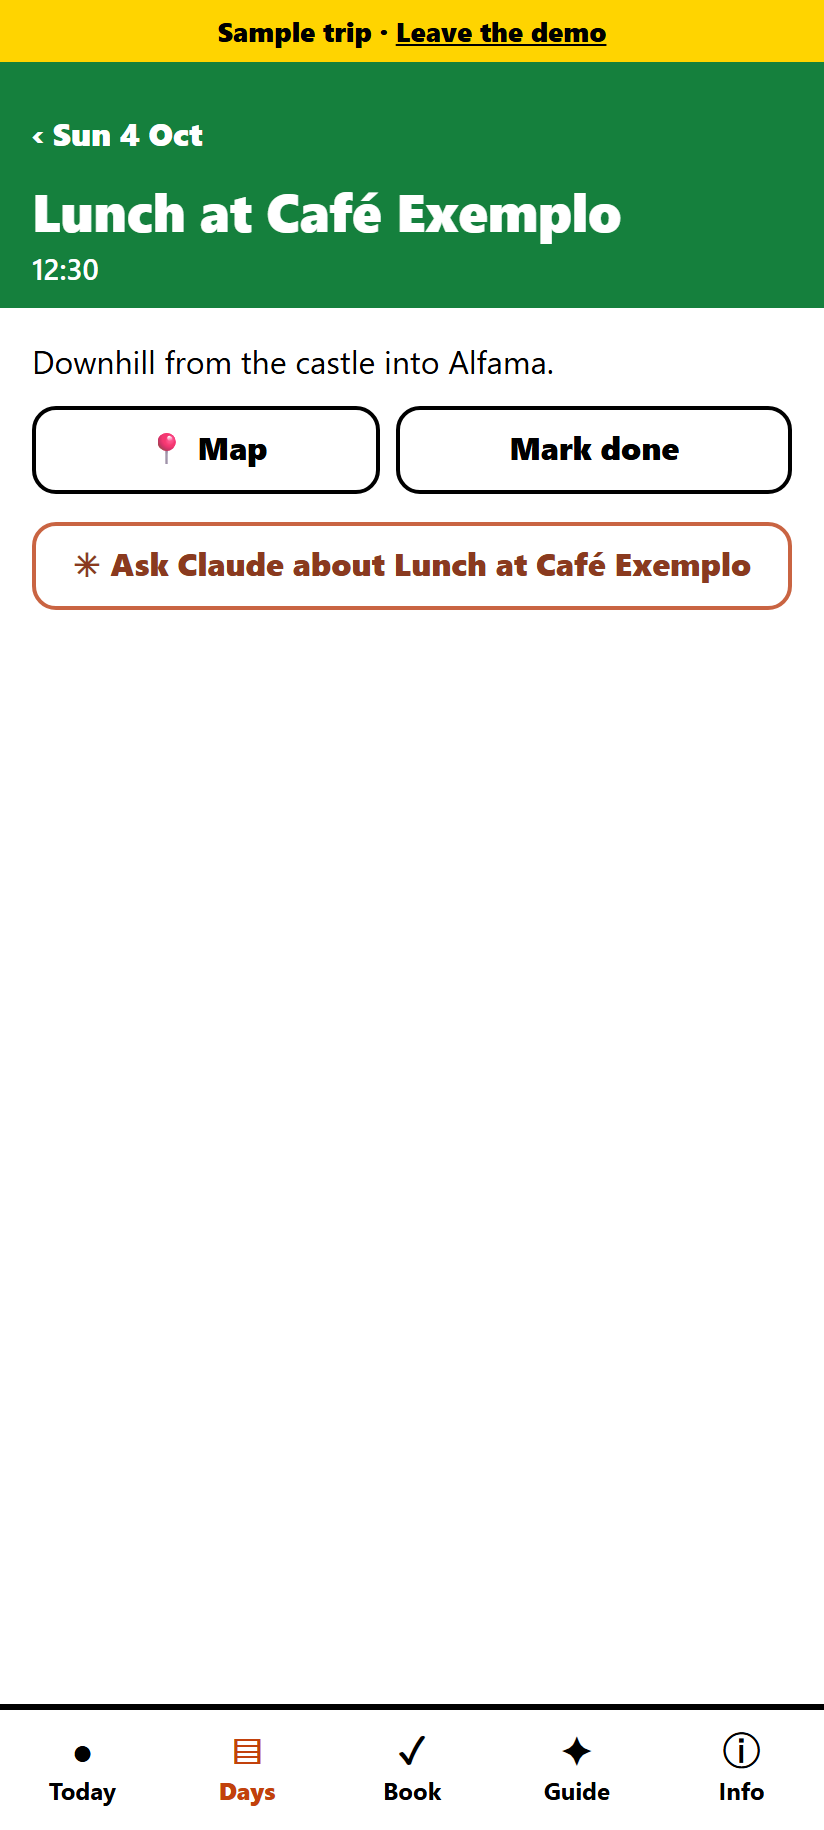
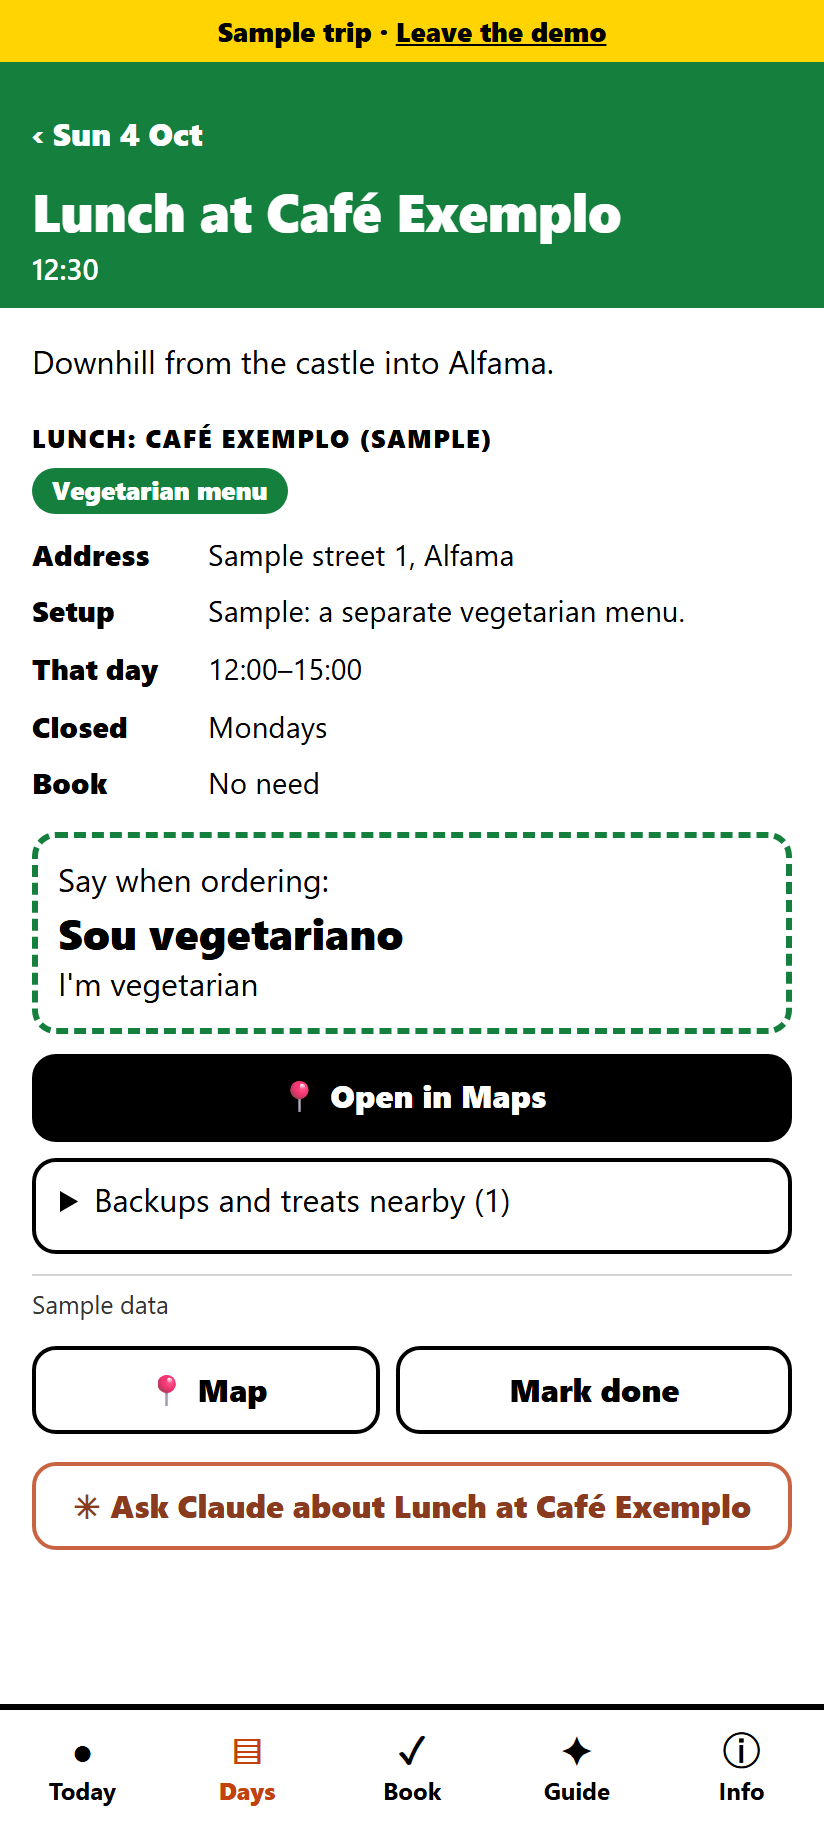
Document the itinerary format and architecture; add README, screenshots and CI

diff --git a/app/js/views/stop.js b/app/js/views/stop.js
@@ -26,7 +26,7 @@ export function stopView(ctx) {
       ${dining ? mealPanel(ctx, dining) : ''}
       ${stay ? stayPanel(ctx, stay) : ''}
       ${guides.map((g) => html`<a class="btn guide-link" href="#/guide/${g.id}">✦ Guide: ${g.title}</a>`)}
-      <div class="btns">${mapButton(stop.maps)}<button class="btn" type="button" data-action="tick" data-id="${stopTickId(stop)}">${ctx.ticks.has(stopTickId(stop)) ? 'Mark not done' : 'Mark done'}</button></div>
+      <div class="btns">${dining?.maps ? '' : mapButton(stop.maps)}<button class="btn" type="button" data-action="tick" data-id="${stopTickId(stop)}">${ctx.ticks.has(stopTickId(stop)) ? 'Mark not done' : 'Mark done'}</button></div>
       ${askLine(ctx, `${stop.title} (${formatDay(day.date)}, ${when})`, stop.title)}
     </div>`;
 }

diff --git a/docs/itinerary-format.md b/docs/itinerary-format.md
@@ -1,0 +1,104 @@
+# Itinerary format (`fieldbook/1`)
+
+Fieldbook reads a trip from a folder. Everything the app shows comes from these files; the app itself knows only concepts such as stop types, transport modes and booking statuses. The [Lisbon demo](../demo) uses every feature and is the best example to copy.
+
+```
+my-trip/
+  data/trip.json        the plan (required)
+  data/guides.json      the pocket guide (optional)
+  data/transport.json   routes, lines, running hours, departure boards (optional)
+  private/stays.json    addresses and other details to keep out of anything public (optional)
+  private/config.json   trip id and the Ask Claude link (optional)
+```
+
+`fieldbook validate --trip my-trip` checks the folder and explains every problem in plain English. `fieldbook encrypt` refuses to encrypt an invalid trip.
+
+Conventions: dates are `YYYY-MM-DD`, times are `HH:MM` (24-hour) in the trip's own time zone, colours are `#rrggbb`, links must be `https://`.
+
+## `data/trip.json`
+
+### `meta` (required)
+| Field | Meaning |
+|---|---|
+| `title` | Shown before the trip starts. |
+| `startDate`, `endDate` | First and last day. |
+| `timezone` | IANA zone, e.g. `Europe/Lisbon`. "Today" and "next" use this zone whatever the phone is set to. |
+| `factsCheckedBetween` | `[from, to]` dates (or text) shown as "checked …" labels. |
+| `pace` | One line about the pace of the trip, shown in the pace box. |
+
+### `travellers`
+`mobility` and `dietary` are lists of sentences, shown in the pace box on each day (until dismissed) and on Info.
+
+### `days` (required)
+Each day: `date`, `city`, `title`, `stops`. Days must be in date order inside the trip dates.
+
+Each stop:
+
+| Field | Required | Meaning |
+|---|---|---|
+| `id` | yes | Unique, `a-z 0-9 -`. Ticks on the phone are stored against it. |
+| `time` | yes | `HH:MM`. Used for ordering and "next". |
+| `timeLabel` | | Text to show instead of the time, e.g. `After lunch`. |
+| `title` | yes | |
+| `type` | yes | `transport`, `sight`, `meal`, `rest` or `logistics`. Sets the colour tile. |
+| `notes` | | Shown in full on the stop, first sentence in lists. |
+| `maps` | | A Google Maps search text, or `null`. |
+| `optional` | | `true` marks a stop the group may skip. |
+| `route` | | Id in `transport.routes`: shows options, "leaving now?" and later times. |
+| `board` | | Id in `transport.boards`: shows a departure board. `boardTab` picks the tab. |
+| `dining` | | `date/meal` key of an entry in `dining`: shows the meal card. |
+| `guide` | | Id (or list of ids) in `guides`. |
+| `stay` | | Id in `stays`: shows the stay card with address and "Show the driver". |
+
+### `dining`
+One entry per planned meal: `date`, `meal` (`breakfast`, `lunch`, `dinner`), `place`, `city`, `address`, `badge` (a short tag shown in lists, e.g. `Vegetarian menu`), `tags` (several tags instead of one badge), `setup`, `hoursThatDay`, `closed`, `book` (true/false), `maps`, `source`.
+
+`diningExtras` lists treats and backups: `kind` (used as a heading), `place`, `city`, `where`, `note`. Extras in the same city appear under each meal card.
+
+### `stays`
+`id`, `city`, `area`, `checkIn`, `checkOut`, `nights`, and optionally `checkInFrom`, `checkOutBy`, `checkInMethod`, `sleeps`, `amenities`, `maps`, `notes`. Keep exact addresses in `private/stays.json`, keyed by the same `id`.
+
+### `bookings`
+`id`, `item`, `forDate`, `deadline` (or `null`), `status`, `url`, `notes`. Status is one of `booked`, `todo`, `unconfirmed`, `unknown`, `optional`, `on-the-day`. The list is sorted by deadline, else by the date the booking is for. Ticking a booking on the phone counts it as done.
+
+### `alerts`
+`date`, `title`, `text`, `checked`, `sources`. Shown at the top of Today and Days until the day has passed, and tagged on that day.
+
+### Reference sections
+`localTransport` (per city: `summary`, `stops`, `routes`, `frequency`, `hours`, `fare`, `howToPay`, `accessibility`, `taxiFallback`, `notes`, `sources`), `transfers` (`id`, `title`, `summary`, `recommended`, `options[]`, `ticketNotes`), `flights` (`segments[]`, `status`, `baggage`), `tips` (`topic`, `text`, `source`) and `links` (`label`, `url`). They appear on the Info cards.
+
+### `ui`
+| Field | Meaning |
+|---|---|
+| `infoCards` | `[{ id, title, subtitle, icon, colour, sections }]`. Each section is one of `transfer:<id>`, `transfers`, `localTransport:<city>`, `dining`, `diningExtras`, `boards`, `tips`, `stays`, `flights`, `links`, `travellers`. Without this, Fieldbook makes sensible cards itself. |
+| `dietPhrase` | `{ say, meaning }`: a phrase shown large on every meal card. |
+| `askChips` | Quick questions offered in the Ask Claude sheet. |
+
+## `data/guides.json`
+```json
+{ "guides": [ { "id": "castle", "kind": "sight", "title": "São Jorge Castle", "city": "Lisbon",
+  "why": "Two sentences on why it matters.",
+  "lookFor": ["Things to point out on the spot"], "facts": ["One-sentence facts"],
+  "kids": [{ "q": "A question for children", "a": "Its answer" }],
+  "sources": ["https://…"], "checked": "2030-05-01" } ] }
+```
+`kind: "city"` entries are listed first as city intros. Places are listed in the order the trip first visits them.
+
+## `data/transport.json`
+| Part | Shape |
+|---|---|
+| `lines` | `{ <id>: { label, name, colour } }`. Labels appear on coloured chips. |
+| `services` | `{ <id>: { hours: [{ days: [0–6], from, to }], hoursText, frequency, sources } }`. Days count from 0 = Sunday. A `to` earlier than `from` runs past midnight, so Friday `05:30–01:30` covers early Saturday too. |
+| `routes` | `{ <id>: { options: [option, …] } }`. The first option is the plan. |
+| `boards` | `{ <id>: { title, date, tabs: [{ label, stations: [...], plan, note, rows: [{ times: [...], flag, note }] }], notes, checked, sources } }`. One time per station (`null` if the train doesn't call); `plan` is the planned departure from the first station. |
+
+A route option: `mode` (`metro`, `tram`, `train`, `bus`, `ferry`, `taxi`, `walk`), `label`, `minutes: [min, max]` door to door, `service`, `legs`, `later` (latest time to leave, as text), `fare`, `fareShort` (for chips), `pay`, `access`, `notes`, `where`, `driverText` (shown large for a taxi driver), `checked`, `sources`.
+
+A leg is either a ride, `{ line, direction, stops, to, text }`, or a walk, `{ walk: metres, minutes, text }`.
+
+"Leaving now?" adds each option's `minutes` to the current time and flags it when the latest arrival misses the next stop. When the option has a `service` that isn't running, it says so.
+
+## `private/`
+`stays.json` is keyed by stay id: `address`, `addressNote`, `host`, `registrationCode`, `listingUrl`, `listingTitle`. `config.json` holds `tripId` (4–32 lowercase letters or digits, used in the file name), `claudeProjectUrl` (the link Ask Claude opens) and `prefillParam` (a query parameter to pre-fill the question, or `null`).
+
+These files go into the encrypted trip file like everything else. Keeping them separate means they never need to be in a shared repository.

diff --git a/README.md b/README.md
@@ -1,0 +1,85 @@
+# Fieldbook
+
+**An offline, encrypted trip companion. It turns an itinerary file into a phone app that works without signal.**
+
+[Try the live demo](https://arash009.github.io/fieldbook/#demo) (a sample weekend in Lisbon; it starts today, so "next" and "leaving now?" are live).
+
+<p>
+  <img src="docs/screenshots/today.png" width="200" alt="Today: the next stop with tram and taxi options and leaving-now arrival times">
+  <img src="docs/screenshots/transport.png" width="200" alt="Transport detail: step-by-step route, later times and fares">
+  <img src="docs/screenshots/meal.png" width="200" alt="Meal card: diet setup, hours, a phrase to show staff">
+  <img src="docs/screenshots/guide.png" width="200" alt="Pocket guide page with things to look for and questions for kids">
+</p>
+
+## Why
+A family trip plan ends up scattered across chats, documents and booking emails. On the road there's roaming data, patchy signal and no time to dig. When someone in the group has limited mobility or a strict diet, the details matter: which metro exit has a lift, whether the restaurant has a separate kitchen, what time the last train goes.
+
+Fieldbook puts the plan in one place that opens instantly and keeps working offline.
+
+## What it does
+- **Today**: opens on the current day in the *trip's* time zone, even if the phone hasn't switched. It shows the next stop and an estimate for every way of getting there. Arrival windows are flagged when you'd miss the following stop, and an option is marked when it isn't running.
+- **Transport options and later times**: metro, tram and taxi side by side, step by step, with running hours, frequency, the latest time to leave, fares and how to pay. Timetabled trains appear on a departure board with the planned train highlighted and later ones listed, because plans slip on holiday.
+- **Meals**: each planned meal shows how the place caters for the group's diet, that day's opening hours and whether to book. It also has a phrase to show staff in the local language, and nearby backups.
+- **Bookings**: soonest deadline first, ticked off on the phone.
+- **Pocket guide**: for each place, why it matters, what to look for, sourced facts and questions for children.
+- **Ask Claude**: one tap copies the context (local time, the day, the next stop, what you're looking at) with your question and opens your Claude project.
+- **Built for outdoors**: black on white, heavy type, big tap targets. It installs to the home screen.
+
+## Privacy by design
+```
+your computer                         public web host                 your phone
+itinerary  ──encrypt (passphrase)──►  app + trip.enc (ciphertext) ──►  passphrase once,
+private details                       nothing readable                 works offline
+```
+- **Encryption:** each trip is encrypted on the owner's computer with PBKDF2-SHA-256 (600,000 iterations) and AES-256-GCM before it's uploaded. The host only ever sees ciphertext.
+- **On the phone:** the key is stored as a non-extractable `CryptoKey`, and the decrypted trip is never written to storage.
+- **Your data stays yours:** real itineraries live in their own private repositories and never touch this one.
+- Details and the threat model are in [docs/architecture.md](docs/architecture.md).
+
+## Bring your own itinerary
+```
+my-trip/data/trip.json         the plan
+my-trip/data/guides.json       optional pocket guide
+my-trip/data/transport.json    optional routes and departure boards
+my-trip/private/*.json         optional details kept out of anything shared
+```
+```bash
+node scripts/fieldbook.mjs validate --trip my-trip     # plain-English problems, if any
+TRIP_PASSPHRASE='five or more random words' \
+node scripts/fieldbook.mjs encrypt --trip my-trip --out dist/trips
+node scripts/fieldbook.mjs build && node scripts/fieldbook.mjs serve
+```
+The format is documented field by field in [docs/itinerary-format.md](docs/itinerary-format.md), and the [demo](demo) uses all of it.
+
+## How it's built
+- Plain JavaScript modules with **no framework and no dependencies**, not even dev ones. A 35-line bundler wires the modules into one file, so the app can also ship as a single self-contained HTML backup.
+- A service worker for offline use; Node 22 built-ins for the CLI (WebCrypto, `zlib` for the icons, `http` for the local server).
+- **57 tests** on Node's built-in test runner. They cover time-zone handling, the "next stop" and "leaving now?" logic, bookings, the board, the encryption round-trip, validation, the bundler, the build, deploys to a local git remote, and every screen rendered against the demo, including HTML escaping.
+- CI runs the tests on every push.
+
+## Built with AI
+I designed and built this with **Claude Code** (Anthropic's Claude Opus 5.5) in one session, as a real tool for my own family trip. The workflow:
+
+1. **Brainstorming** with clickable mockups in a local browser: three visual directions, then refinements, then every screen.
+2. **A written design spec**, revised when I decided to make the app a public, generic product with private trips kept separately.
+3. **A task-by-task implementation plan** with the tests written out.
+4. **Test-first implementation**, checked in a headless phone-sized browser along the way. That caught a real bug: the demo's moved dates broke meal links, and the fix came with a regression test.
+5. **Parallel research agents** for timetables and guide facts in my own trip, each fact with a source.
+
+I set the product direction and constraints:
+- privacy first;
+- offline;
+- readable in sunlight;
+- transport options rather than a rigid schedule;
+- a hand-off to Claude rather than an API bill.
+
+I reviewed each step. Claude wrote the code and tests, and commits carry `Co-Authored-By` trailers.
+
+## Roadmap
+- Hosted, multi-user trips: bring your own itinerary without running the CLI.
+- Import an itinerary from a chat, document or booking emails.
+- A shared read-only view for the rest of the group.
+- More languages for the interface and phrases.
+
+## License
+MIT

diff --git a/docs/architecture.md b/docs/architecture.md
@@ -1,0 +1,40 @@
+# Architecture
+
+## Shape
+
+```
+itinerary folder ──fieldbook encrypt──► trips/<id>.enc ─┐
+                                                        ├─► static site (GitHub Pages) ──► phone (installed web app)
+app/ ──fieldbook build──► index.html, app.js, sw.js ───┘
+```
+
+- **No framework, no dependencies.** The app is plain ES modules in `app/js/`. A small bundler (`scripts/lib/bundle.mjs`) wraps each module in a function and wires imports, giving one `app.js` that works from a server or inlined in a single HTML file.
+- **Pure logic, tested in Node.** `clock.js` (time in the trip's zone), `plan.js` (next stop, leaving-now, bookings, boards, the Ask context), `data.js`, `html.js`, `router.js`, `ticks.js` and `crypto.js` have no DOM dependencies. `node --test` runs them and renders every view against the demo.
+- **Views are functions that return HTML.** Every interpolated value goes through the `html` tagged template, which escapes it. Data can't inject markup, and the Content Security Policy blocks inline scripts on the hosted site.
+- **One state object, re-rendered.** `main.js` keeps the decrypted trip, the ticks and small UI state. It re-renders on navigation, on taps and every 30 seconds, so "next" and "leaving now?" stay current.
+
+## Offline
+- The service worker caches the app shell per build version.
+- Trip files are network-first, so an update arrives as soon as there's signal, with the cached copy used otherwise.
+- After one visit with signal, everything works in airplane mode except map links, outside links and Ask Claude.
+- Ticks (stops done, bookings made) are stored in `localStorage` per trip and survive updates, because they're keyed by stable ids.
+
+## Encryption and threat model
+
+**What's public:** the app code, the demo, and for each trip one JSON file containing a salt, an IV and AES-GCM ciphertext. Anyone can see that a trip file exists, its random id and its size.
+
+**What isn't:** everything in the trip. It's encrypted on the owner's computer before upload:
+- **Key:** PBKDF2-SHA-256 with 600,000 iterations over a passphrase, then AES-256-GCM, which also detects tampering.
+- **Passphrase:** the CLI refuses fewer than 5 words or 24 characters, because the ciphertext can be attacked offline by anyone who downloads it. A long random passphrase is what makes that impractical.
+- **Salt:** stable per trip, kept beside the itinerary. Each update gets a fresh IV, and a key saved on the phone keeps working across updates.
+- **On the phone:** the key is derived once and stored in IndexedDB as a non-extractable `CryptoKey`, so scripts can use it but not read it out. The decrypted trip lives only in memory. Lock deletes the key.
+
+**What Fieldbook does not protect against:**
+- someone using the unlocked phone;
+- a weak passphrase;
+- anything the owner sends elsewhere, such as the context copied into Claude by Ask Claude.
+
+**The single-file backup** (`encrypt --single-file`) is the same app and the same ciphertext in one HTML file. It's for keeping on the phone in case the site can't be reached. It has no service worker, and it asks for the passphrase again if the browser blocks storage for local files.
+
+## Keeping a real trip out of a public repo
+The intended setup keeps each real itinerary in its own private folder or repository and runs the CLI from there. The owner of this repo also runs a local pre-push check that scans this repository, its history and the built site against terms taken from their private itinerary, so nothing from a real trip can be pushed here by mistake.
